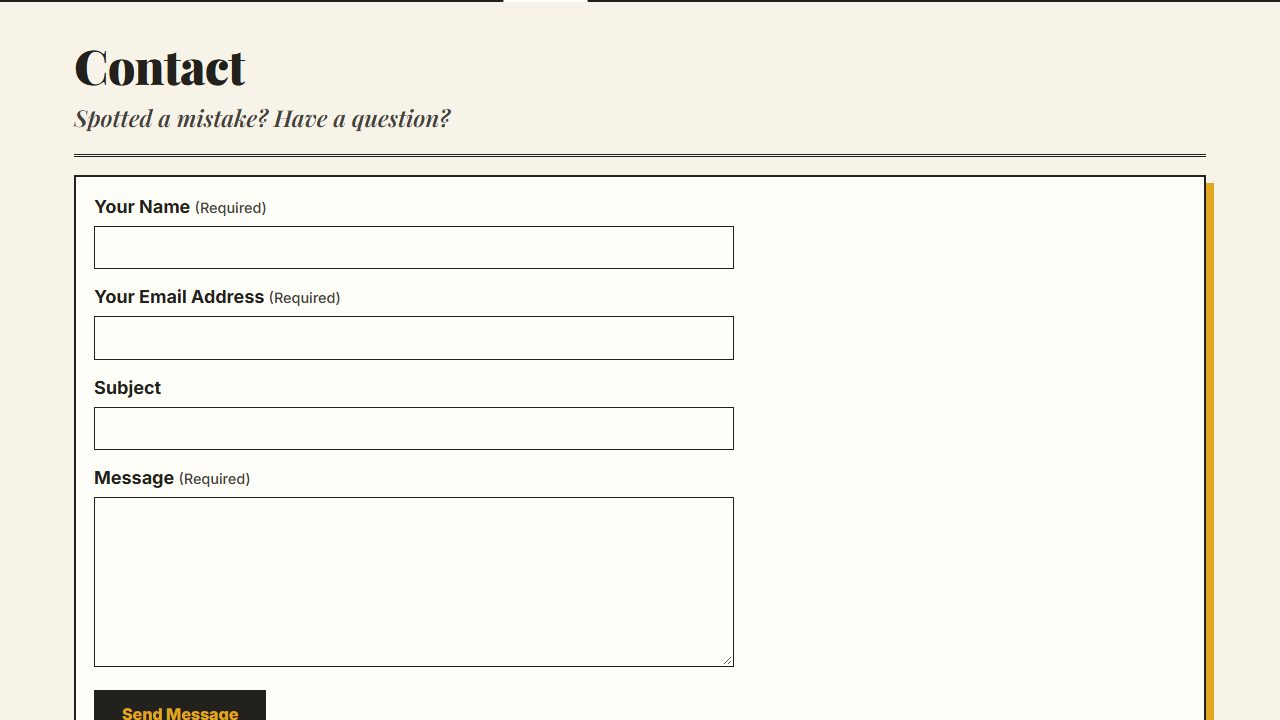
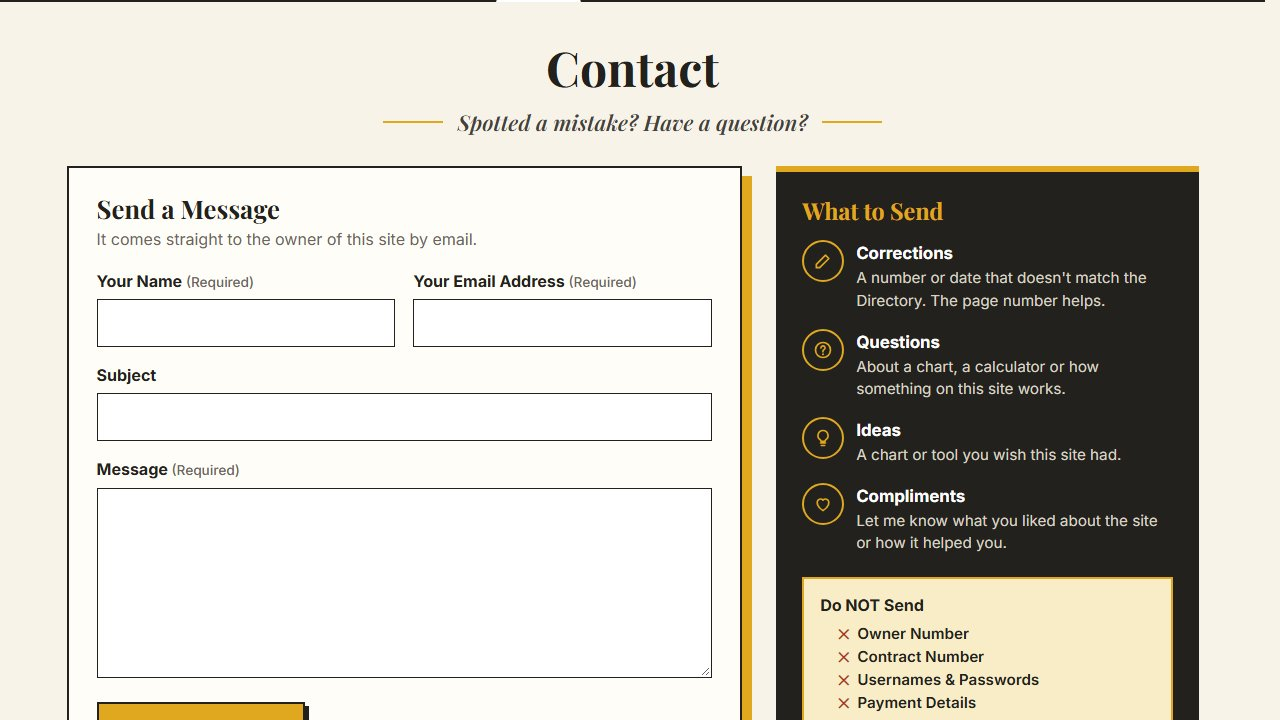
Same compact header on every page, prettier Contact page, Points Budget tab on 52 Weeks, Points Budget fixes (#74)
- Header: Home, Knight Move, Points Budget and Contact share the compact header (Points Budget was missing the logo font, so it looked bold). The header's space is held before it is drawn, so pages no longer jump when switching tabs.
- 52 Weeks: Points Budget tab added (owner-requested season chart v2 change; protected-files.sha256 updated).
- Contact: new layout with the form card and a What to Send panel (Corrections, Questions, Ideas, Compliments, Do NOT Send list).
- Knight Move: breadcrumb removed; title moved up like Points Budget and Contact.
- Points Budget: bolder day checks, separator above Check-In Day, darker separators, "(least points)" wording, over-budget prices grey, Room Size under Latest Check-Out, examples use All Sizes and 3 months, "65,000 Points".
- Home: new Contact and Knight Move preview pictures.

Claude-Session: https://claude.ai/code/session_01UoETC95Bkp7BHu5sbZuC9e

diff --git a/52weeks/pointsbudget.html b/52weeks/pointsbudget.html
@@ -5,7 +5,9 @@
 <meta name="viewport" content="width=device-width, initial-scale=1">
 <title>Where Can My Points Take Me? | Your Timeshare Guide</title>
 <link rel="icon" href="../assets/favicon.svg" type="image/svg+xml">
-<link href="https://fonts.googleapis.com/css2?family=Caveat:wght@700&family=Inter:wght@400;500;600;700;800&family=Montserrat:wght@800&family=Playfair+Display:ital,wght@0,600;0,700;0,800;0,900;1,600&display=swap" rel="stylesheet">
+<link rel="preconnect" href="https://fonts.googleapis.com">
+<link rel="preconnect" href="https://fonts.gstatic.com" crossorigin>
+<link href="https://fonts.googleapis.com/css2?family=Caveat:wght@700&family=Cormorant+Garamond:ital,wght@0,700;1,600&family=Inter:wght@400;500;600;700;800&family=Montserrat:wght@800&family=Playfair+Display:ital,wght@0,600;0,700;0,800;0,900;1,600&display=swap" rel="stylesheet">
 <link rel="stylesheet" href="../assets/site.css">
 <meta name="description" content="Find stays that fit your points and explore your options.">
 <meta name="robots" content="noindex, nofollow">
@@ -14,7 +16,7 @@
 @media (prefers-color-scheme:dark){:root{--bg:#10151c;--card:#19212b;--ink:#e8edf3;--mute:#9aa6b5;--line:#2c3744;--stay:#6aa9e6;--good:#4ade80;--bad:#f87171;--warn:#2b2113;--head:#212c38}}
 *{box-sizing:border-box}
 body{margin:0;background:var(--bg);color:var(--ink);font:16px/1.45 system-ui,Segoe UI,Roboto,sans-serif}
-.wrap{max-width:1500px;margin:0 auto;padding:12px 16px 60px}
+#main.wrap{max-width:1500px;margin:0 auto;padding:12px 16px 60px}
 #setCard,.sub,.notes{max-width:1000px;margin-left:auto;margin-right:auto}
 h1{font-size:1.8rem;margin:0 0 2px;text-align:center}
 h2{font-size:1.1rem;margin:0 0 10px}
@@ -32,7 +34,7 @@ button.wkday{grid-column:1/6}button.wkend{grid-column:6/8}
 /* Check-In Day buttons, option C (owner, 2026-10-25): on = white with a small green check; off = grey, dashed and crossed through */
 button.day{display:flex;align-items:center;justify-content:center;gap:3px;min-height:38px;padding:4px 0;background:#f3f4f6;color:#a3abb5;border:1.5px dashed #c9cfd6;font-weight:600;text-decoration:line-through}
 button.day[aria-pressed="true"]{background:#fff;color:var(--ink);border:1.5px solid #8a96a3;text-decoration:none}
-button.day[aria-pressed="true"]::before{content:"\2713";color:#15803d;font-weight:800}
+button.day[aria-pressed="true"]::before{content:"\2713";color:#15803d;font-weight:800;font-size:1.2em;line-height:1;-webkit-text-stroke:1.2px #15803d}   /* bolder check (owner, 2026-10-26) */
 @media (prefers-color-scheme:dark){button.day{background:#212c38;color:#6b7785;border-color:#3a4654}button.day[aria-pressed="true"]{background:#19212b;color:var(--ink);border-color:#9aa6b5}button.day[aria-pressed="true"]::before{color:#4ade80}}
 .maxn{margin-left:10px;font-weight:700;color:var(--mute)}
 .sethead{display:flex;flex-wrap:wrap;justify-content:space-between;align-items:baseline;gap:4px 16px;margin:0 0 10px}
@@ -53,6 +55,7 @@ button.link{all:unset;cursor:pointer;color:var(--stay);font-weight:700;text-deco
 .fgrid>div{min-width:0}.fgrid .full{grid-column:1/-1}.fgrid .rule{border-top:1px solid var(--line);margin:2px 0}
 .fgrid input:not([type=checkbox]):not(.pickin),.fgrid select{width:100%}
 .fgrid .msg{margin-top:6px}
+.sizebox{margin-top:12px}   /* Room Size under Latest Check-Out, across from Max Nights (owner, 2026-10-26) */
 .nights{margin-top:12px}.nrow{display:grid;grid-template-columns:96px 84px;align-items:center;gap:10px;margin-top:8px}.nrow label{margin:0}.fgrid .nrow input{width:84px;height:38px;margin:0}
 .where{background:var(--head);border:1px solid var(--line);border-radius:10px;padding:10px 12px}
 .radrow{display:flex;align-items:center;gap:10px;margin-top:8px}.radrow label{white-space:nowrap;margin:0}.fgrid .radrow select{width:auto;min-width:150px;margin:0}
@@ -119,7 +122,7 @@ td.sPrime{background:var(--prime)}td.sHigh{background:var(--high)}td.sValue{back
 .chips{display:flex;flex-wrap:wrap;gap:10px;align-items:center;font-size:.8rem;color:var(--mute);margin:0 0 6px}
 .chips span.chip{display:inline-flex;align-items:center;gap:5px;color:var(--ink)}
 .chips i{display:inline-block;width:14px;height:14px;border-radius:3px;border:1px solid rgba(0,0,0,.35)}
-td.pPrime{background:rgba(229,127,118,.34)}td.pHigh{background:rgba(239,156,76,.34)}td.pValue{background:rgba(247,226,151,.55)}td.pQuiet{background:rgba(140,207,176,.34)}
+td.pPrime,td.pHigh,td.pValue,td.pQuiet{background:#ecebe7;color:#8a867d}   /* prices over your points: grey, not their season color (owner, 2026-10-26) */
 td.fit{background:#d3e6fa;color:#0f3d6b;font-weight:700;box-shadow:inset 3px 0 0 #2a6fb0}   /* blue, not a season color (owner, 2026-10-25) */
 @media (prefers-color-scheme:dark){td.fit{background:#1d3a5c;color:#e8edf3}}
 .notes{background:var(--warn)}
@@ -136,7 +139,7 @@ p.foot{color:var(--mute);font-size:.85rem;text-align:center;max-width:1000px;mar
 .printonly{display:none}
 @media print{
  body{background:#fff;color:#000}
- .wrap{max-width:none;padding:0}
+ #main.wrap{max-width:none;padding:0}
  .noprint{display:none!important}
  .printonly{display:block}
  .card{border:0;padding:0}
@@ -165,7 +168,7 @@ p.foot{display:none}   /* the site footer below carries the same notice */
 #pts{border-width:2.5px}
 .ptslabel{font-family:"Playfair Display",Georgia,serif;font-weight:800;font-size:1.5rem}
 #vip{border:1px solid #c9bfa9;background:#efe9da;color:#6b665b}
-.fgrid .rule{border-top:2px dotted #c9bfa9}
+.fgrid .rule{border-top:2px dotted #9c8f74}   /* a little darker (owner, 2026-10-26) */
 .where{background:#f9edc8;border:1.5px solid #22211e;border-radius:0}
 @media (max-width:900px){.hero{display:flex;flex-direction:column}.hsmall{order:-1}.hwide{display:none}.htext{position:static;padding:0}.hsmall{display:grid;grid-template-columns:130px 180px;justify-content:center;align-items:end;gap:6px;margin-bottom:8px}.hero h1{white-space:normal;font-size:2rem}.hero p{font-size:1.05rem}}
 .card{border-radius:0;border:2px solid #22211e}
@@ -178,7 +181,7 @@ button.alt:hover{background:#f9edc8}
 #go{background:#e0a81e;color:#22211e;border:2px solid #22211e;box-shadow:4px 4px 0 #22211e;font-size:1.05rem;padding:10px 24px}
 input,select{border-radius:0;border:2px solid #22211e;background:#fff}
 input:focus,select:focus{outline:3px solid #e0a81e;outline-offset:1px}
-.presets{border-bottom:2px dotted #c9bfa9}
+.presets{border-bottom:2px dotted #9c8f74}
 button.grpday,button.link,button.more{color:#22211e;text-decoration-color:#e0a81e;text-decoration-thickness:2px}
 .sethead label.chk{color:#45423b}
 .scroll{border:1.5px solid #22211e;border-radius:0}
@@ -195,7 +198,6 @@ th[aria-sort=ascending] .arr .u,th[aria-sort=descending] .arr .d{color:#22211e}
 .btns{border:0;padding-bottom:0}
 /* every heading puts its sort arrows under the words, as the number columns do, so the table fits at 1366 px in the site font */
 th:not(.n) button .lbl{display:inline-flex;flex-direction:column;align-items:flex-start}th:not(.n) .arr{flex-direction:row;margin:3px 0 0}th.sea .lbl{align-items:center}   /* site.css draws a gold rule under .btns; not wanted here */
-.mast .wrap,.nav .wrap,#site-header .wrap,footer .wrap{max-width:1180px;margin:0 auto;padding:0 24px}
 </style>
 </head>
 <body data-tab="planastay">
@@ -540,7 +542,7 @@ th:not(.n) button .lbl{display:inline-flex;flex-direction:column;align-items:fle
 <div class="sethead"><h2 id="sh">Search Settings</h2></div>
 <form id="f" novalidate>
 <div class="presets"><span class="lab">Try an Example:</span>
-<button type="button" class="alt" data-preset="low">Lowest Points per Night</button><button type="button" class="alt" data-preset="bonnet">Bonnet Creek</button><button type="button" class="alt" data-preset="water">Water Park Resorts</button><button type="button" class="alt" data-preset="vegas">Las Vegas</button><button type="button" class="alt" data-preset="65">65,000 Points a Year</button>
+<button type="button" class="alt" data-preset="low">Lowest Points per Night</button><button type="button" class="alt" data-preset="bonnet">Bonnet Creek</button><button type="button" class="alt" data-preset="water">Water Park Resorts</button><button type="button" class="alt" data-preset="vegas">Las Vegas</button><button type="button" class="alt" data-preset="65">65,000 Points</button>
 </div>
 <div class="ptsc">
 <label for="pts" class="ptslabel">How Many Points Do You Want to Use?</label>
@@ -548,20 +550,20 @@ th:not(.n) button .lbl{display:inline-flex;flex-direction:column;align-items:fle
 <div class="minor"><label for="vip">VIP Level</label><select id="vip"><option value="none">Non-VIP</option><option value="all">Show All</option></select><label class="chk"><input type="checkbox" id="disc"> Discovery Resorts Only</label></div>
 </div>
 <div class="fgrid">
-<div><label for="size">Room Size</label><select id="size"></select></div>
 <div class="full where"><label for="loc">Location</label><input id="loc" type="search" list="places" autocomplete="off" placeholder="e.g. Bay Club, Maine, Canada"><datalist id="places"></datalist>
 <div class="radrow"><label for="radius">Search Radius</label><select id="radius" disabled></select></div>
 <p class="hint" id="radHint">Type a resort name, state or country. For a radius, type a city and state, such as Orlando, Florida.</p></div>
 <div class="rule full" aria-hidden="true"></div>
 <div><label for="from">Earliest Check-In</label><div class="dbox"><input id="from" type="text" inputmode="numeric" autocomplete="off" placeholder="mm/dd/yy"><button type="button" class="pickbtn" data-for="from" aria-label="Pick Earliest Check-In From a Calendar" title="Pick From a Calendar"><svg viewBox="0 0 24 24" aria-hidden="true" focusable="false"><rect x="3.5" y="5" width="17" height="15.5" rx="1.5"/><path d="M3.5 9.5h17M8 3v4M16 3v4"/></svg></button><input type="date" class="pickin" tabindex="-1" aria-hidden="true" data-for="from"></div><p class="msg err" id="fromErr" role="status" hidden>Type a date like 10/25/26 or 102526.</p><div class="nights"><div class="nrow"><label for="minN">Min Nights</label><input id="minN" type="number" min="1" max="30" value="2"></div><p class="msg err" id="oneNight" role="status" hidden>Note: Club Wyndham min. booking is 2 nights.</p><div class="nrow"><label for="maxN">Max Nights</label><input id="maxN" type="number" min="1" max="30" value="7"></div><p class="msg err" id="maxWarn" role="status" hidden>Max Nights needs to be 5 or less for weeknight-only stays.</p></div></div>
-<div><label for="to">Latest Check-Out</label><div class="dbox"><input id="to" type="text" inputmode="numeric" autocomplete="off" placeholder="mm/dd/yy"><button type="button" class="pickbtn" data-for="to" aria-label="Pick Latest Check-Out From a Calendar" title="Pick From a Calendar"><svg viewBox="0 0 24 24" aria-hidden="true" focusable="false"><rect x="3.5" y="5" width="17" height="15.5" rx="1.5"/><path d="M3.5 9.5h17M8 3v4M16 3v4"/></svg></button><input type="date" class="pickin" tabindex="-1" aria-hidden="true" data-for="to"></div><p class="msg err" id="toErr" role="status" hidden>Type a date like 10/25/26 or 102526.</p><div class="spans" role="group" aria-label="Set Latest Check-Out from Earliest Check-In"><button type="button" data-span="7d">1 Wk</button><button type="button" data-span="14d">2 Wks</button><button type="button" data-span="1m">1 Mo</button><button type="button" data-span="6m">6 Mo</button><button type="button" data-span="12m">1 Yr</button></div><p class="hint"><button type="button" class="link small" id="clearTo">Leave blank</button> to check in on the Earliest Check-In date only.</p></div>
+<div><label for="to">Latest Check-Out</label><div class="dbox"><input id="to" type="text" inputmode="numeric" autocomplete="off" placeholder="mm/dd/yy"><button type="button" class="pickbtn" data-for="to" aria-label="Pick Latest Check-Out From a Calendar" title="Pick From a Calendar"><svg viewBox="0 0 24 24" aria-hidden="true" focusable="false"><rect x="3.5" y="5" width="17" height="15.5" rx="1.5"/><path d="M3.5 9.5h17M8 3v4M16 3v4"/></svg></button><input type="date" class="pickin" tabindex="-1" aria-hidden="true" data-for="to"></div><p class="msg err" id="toErr" role="status" hidden>Type a date like 10/25/26 or 102526.</p><div class="spans" role="group" aria-label="Set Latest Check-Out from Earliest Check-In"><button type="button" data-span="7d">1 Wk</button><button type="button" data-span="14d">2 Wks</button><button type="button" data-span="1m">1 Mo</button><button type="button" data-span="6m">6 Mo</button><button type="button" data-span="12m">1 Yr</button></div><p class="hint"><button type="button" class="link small" id="clearTo">Leave blank</button> to check in on the Earliest Check-In date only.</p><div class="sizebox"><label for="size">Room Size</label><select id="size"></select></div></div>
+<div class="rule full" aria-hidden="true"></div>
 <div class="full"><span class="lab" id="dayLbl">Check-In Day:</span>
 <div class="daygrid" role="group" aria-labelledby="dayLbl">
 <button type="button" class="grpday wkday" data-days="0,1,2,3,4">Weekday</button><button type="button" class="grpday wkend" data-days="5,6">Weekend</button>
 <span class="clickday">Click a day</span>
 <button type="button" class="day" data-d="0" aria-pressed="true">Sun</button><button type="button" class="day" data-d="1" aria-pressed="true">Mon</button><button type="button" class="day" data-d="2" aria-pressed="true">Tue</button><button type="button" class="day" data-d="3" aria-pressed="true">Wed</button><button type="button" class="day" data-d="4" aria-pressed="true">Thu</button><button type="button" class="day" data-d="5" aria-pressed="true">Fri</button><button type="button" class="day" data-d="6" aria-pressed="true">Sat</button>
 </div>
-<div class="wkbox"><label class="chk"><input type="checkbox" id="wkn"> Use only weeknights for the stay (Max: 5 Nights)</label></div></div>
+<div class="wkbox"><label class="chk"><input type="checkbox" id="wkn"> Use only weeknights (least points) for the stay (Max: 5 Nights)</label></div></div>
 </div>
 <div class="btns go"><button type="submit" id="go">Find Stays</button></div>
 <p class="msg err" id="err" role="alert" hidden></p>
@@ -1024,7 +1026,10 @@ function allDays() { for (var i = 0; i < dayBtns.length; i++) dayBtns[i].setAttr
 document.querySelector('.presets').addEventListener('click', function (ev) {
   var b = ev.target.closest('button[data-preset]'); if (!b) return;
   var p = b.getAttribute('data-preset');
-  setDate('from', Math.max(CAL_START, todayUTC)); setDate('to', CAL_END); allDays(); lowMode = false;
+  /* Examples (owner, 2026-10-26): All Sizes, and Latest Check-Out 3 months after Earliest Check-In */
+  var f0 = Math.max(CAL_START, todayUTC), d0 = new Date(f0), t0 = Date.UTC(d0.getUTCFullYear(), d0.getUTCMonth() + 3, d0.getUTCDate());
+  if (new Date(t0).getUTCDate() !== d0.getUTCDate()) t0 = Date.UTC(d0.getUTCFullYear(), d0.getUTCMonth() + 4, 0);
+  setDate('from', f0); setDate('to', Math.min(CAL_END, t0)); $('size').value = ''; allDays(); lowMode = false;
   if (p === 'low') { $('loc').value = ''; $('minN').value = 1; $('maxN').value = 1; lowMode = true; }
   else { $('minN').value = 2; $('maxN').value = 7; }
   if (p === 'bonnet') $('loc').value = 'Club Wyndham Bonnet Creek';

diff --git a/contact/index.html b/contact/index.html
@@ -12,44 +12,92 @@
 <link href="https://fonts.googleapis.com/css2?family=Cormorant+Garamond:ital,wght@0,700;1,600&family=Inter:wght@400;500;600;700;800&family=Playfair+Display:ital,wght@0,600;0,700;0,800;0,900;1,600&display=swap" rel="stylesheet">
 <link rel="stylesheet" href="../assets/site.css">
 <style>
+  /* Contact page (owner, 2026-10-26: "prettier"): a heading band, the form card with a gold shadow, and a dark side panel */
+  .c-head{text-align:center;margin:10px 0 26px}   /* title sits where the Points Budget title does (owner, 2026-10-26) */
+  .c-head h1{font-size:3rem}
+  .c-head .c-rule{display:flex;align-items:center;justify-content:center;gap:14px;margin:10px 0 0;font-family:var(--serif);font-style:italic;font-size:1.35rem;color:var(--ink2)}
+  .c-head .c-rule::before,.c-head .c-rule::after{content:"";width:60px;height:2px;background:var(--mustard);flex:none}
+  .c-grid{display:grid;grid-template-columns:minmax(0,1.6fr) minmax(0,1fr);gap:34px;align-items:start;margin-bottom:40px}
+  .c-card{background:var(--card);border:2px solid var(--ink);box-shadow:10px 10px 0 var(--mustard);padding:26px 28px 28px}
+  .c-card h2{font-size:1.6rem;margin:0 0 4px}
+  .c-card .c-sub{color:var(--ink3);font-size:1rem;margin:0}
   /* Contact form */
-  .cf{display:grid;gap:14px;max-width:640px}
-  .cf label{display:block;font-weight:700;margin-bottom:4px}
-  .cf .req{color:var(--ink2);font-weight:500;font-size:.9rem}
-  .cf input,.cf textarea{font:inherit;font-size:1rem;color:var(--ink);background:var(--card);border:1.5px solid var(--ink);padding:8px 10px;border-radius:0;width:100%;box-sizing:border-box}
-  .cf textarea{min-height:170px;resize:vertical}
-  .cf .send{justify-self:start;font:inherit;font-weight:800;font-size:1rem;background:var(--ink);color:var(--mustard);border:2px solid var(--ink);padding:10px 26px;cursor:pointer}
-  .cf .send:hover{background:var(--mustard);color:var(--ink)}
-  .cf-done{display:none}
+  .cf{display:grid;grid-template-columns:1fr 1fr;gap:16px 18px}
+  .cf .full{grid-column:1/-1}
+  .cf label{display:block;font-weight:700;font-size:1rem;margin-bottom:5px}
+  .cf .req{color:var(--ink3);font-weight:500;font-size:.85rem}
+  .cf input,.cf textarea{font:inherit;font-size:1rem;color:var(--ink);background:#fff;border:1.5px solid var(--ink);padding:10px 12px;border-radius:0;width:100%;box-sizing:border-box}
+  .cf input:focus,.cf textarea:focus{outline:3px solid var(--mustard);outline-offset:1px;box-shadow:none}
+  .cf textarea{min-height:190px;resize:vertical}
+  .cf .send{justify-self:start;display:inline-flex;align-items:center;gap:10px;font:inherit;font-weight:800;font-size:1.05rem;background:var(--mustard);color:var(--ink);border:2px solid var(--ink);box-shadow:4px 4px 0 var(--ink);padding:11px 26px;cursor:pointer}
+  .cf .send:hover{background:var(--ink);color:var(--mustard)}
+  .cf .send:active{transform:translate(2px,2px);box-shadow:2px 2px 0 var(--ink)}
+  .cf .send:disabled{opacity:.6;cursor:default}
+  .cf .send svg{width:20px;height:20px}
+  .cf-done{display:none;text-align:center;padding:20px 0 6px}
   .cf-done.on{display:block}
-  .cf-err{color:var(--red);font-weight:700;margin:12px 0 0}
+  .cf-done .tick{display:inline-grid;place-items:center;width:64px;height:64px;border-radius:50%;background:var(--mustard);border:2px solid var(--ink);font-size:2rem;font-weight:800;margin-bottom:10px}
+  .cf-done h2{font-size:2rem}
+  .cf-err{color:var(--red);font-weight:700;margin:14px 0 0}
+  .c-side{background:var(--ink);color:var(--paper);padding:26px 26px 22px;border-top:6px solid var(--mustard)}
+  .c-side h2{color:var(--mustard);font-size:1.45rem;margin:0 0 16px}
+  .c-side ul{list-style:none;margin:0;padding:0;display:grid;gap:16px}
+  .c-side li{display:grid;grid-template-columns:42px 1fr;gap:12px;align-items:start}
+  .c-side .ic{display:grid;place-items:center;width:42px;height:42px;border:2px solid var(--mustard);border-radius:50%;color:var(--mustard)}
+  .c-side .ic svg{width:20px;height:20px}
+  .c-side strong{display:block;font-size:1.05rem;color:#fff}
+  .c-side li span{display:block;font-size:.95rem;line-height:1.5;color:#d9d3c4}
+  .c-note{margin-top:22px;background:var(--mustard-pale);color:var(--ink);border:2px solid var(--mustard);padding:14px 16px;font-size:.95rem;line-height:1.5}
+  .c-note strong{display:block;font-size:1rem;margin-bottom:2px;color:var(--ink)}
+  .c-note a{color:var(--ink)}
+  .c-note p{margin:10px 0 0}
+  .c-side .c-dont{display:block;list-style:none;margin:6px 0 0;padding:0 0 0 18px}
+  .c-side .c-dont li{display:flex;align-items:center;gap:8px;font-weight:600}
+  .c-side .c-dont li::before{content:"\2715";color:var(--red);font-weight:800;font-size:.85rem}
+  @media (max-width:860px){.c-grid{grid-template-columns:1fr}.c-card{box-shadow:6px 6px 0 var(--mustard)}}
+  @media (max-width:560px){.cf{grid-template-columns:1fr}.c-head h1{font-size:2.4rem}.c-head .c-rule{font-size:1.15rem}.c-head .c-rule::before,.c-head .c-rule::after{width:24px}.c-card{padding:20px 18px 22px}}
 </style>
 </head>
 <body data-tab="contact">
 <div id="site-header"></div>
 <main>
   <div class="wrap">
-    <div class="page-head">
+    <div class="c-head">
       <h1>Contact</h1>
-      <div class="question">Spotted a mistake? Have a question?</div>
+      <p class="c-rule">Spotted a mistake? Have a question?</p>
     </div>
-    <div class="card gold">
-      <form class="cf" id="cf" novalidate>
-        <input type="checkbox" name="botcheck" tabindex="-1" autocomplete="off" style="display:none">
-        <div><label for="cf-name">Your Name <span class="req">(Required)</span></label><input id="cf-name" name="name" autocomplete="name" required></div>
-        <div><label for="cf-email">Your Email Address <span class="req">(Required)</span></label><input id="cf-email" name="email" type="email" autocomplete="email" required></div>
-        <div><label for="cf-subject">Subject</label><input id="cf-subject" name="subject"></div>
-        <div><label for="cf-message">Message <span class="req">(Required)</span></label><textarea id="cf-message" name="message" required></textarea></div>
-        <button type="submit" class="send">Send Message</button>
-      </form>
-      <p class="cf-err" id="cf-err" role="alert" hidden></p>
-      <div class="cf-done" id="cf-done" role="status">
-        <h2>Thank You</h2>
-        <p>Your message was sent. We'll reply to the email address you gave.</p>
+    <div class="c-grid">
+      <div class="c-card">
+        <form class="cf" id="cf" novalidate>
+          <div class="full"><h2>Send a Message</h2><p class="c-sub">It comes straight to the owner of this site by email.</p></div>
+          <input type="checkbox" name="botcheck" tabindex="-1" autocomplete="off" style="display:none">
+          <div><label for="cf-name">Your Name <span class="req">(Required)</span></label><input id="cf-name" name="name" autocomplete="name" required></div>
+          <div><label for="cf-email">Your Email Address <span class="req">(Required)</span></label><input id="cf-email" name="email" type="email" autocomplete="email" required></div>
+          <div class="full"><label for="cf-subject">Subject</label><input id="cf-subject" name="subject"></div>
+          <div class="full"><label for="cf-message">Message <span class="req">(Required)</span></label><textarea id="cf-message" name="message" required></textarea></div>
+          <button type="submit" class="send"><svg viewBox="0 0 24 24" aria-hidden="true"><path d="M3 11.5 21 3l-6.5 18-3-7.5z" fill="none" stroke="currentColor" stroke-width="2" stroke-linejoin="round"/><path d="m11.5 13.5 4-4" stroke="currentColor" stroke-width="2" stroke-linecap="round"/></svg><span>Send Message</span></button>
+        </form>
+        <p class="cf-err" id="cf-err" role="alert" hidden></p>
+        <div class="cf-done" id="cf-done" role="status">
+          <div class="tick" aria-hidden="true">&#10003;</div>
+          <h2>Thank You</h2>
+          <p>Your message was sent. We'll reply to the email address you gave.</p>
+        </div>
       </div>
-    </div>
-    <div class="prose">
-      <p>This site cannot book, change or look up reservations. Please don't send your owner number, password or payment details. For your own account, contact Club Wyndham directly through <a href="https://clubwyndham.wyndhamdestinations.com/us/en/help" target="_blank" rel="noopener">Club Wyndham Help</a>.</p>
+      <aside class="c-side" aria-label="What to Send">
+        <h2>What to Send</h2>
+        <ul>
+          <li><span class="ic"><svg viewBox="0 0 24 24" aria-hidden="true"><path d="M4 20h4L19 9l-4-4L4 16z" fill="none" stroke="currentColor" stroke-width="2" stroke-linejoin="round"/></svg></span><div><strong>Corrections</strong><span>A number or date that doesn't match the Directory. The page number helps.</span></div></li>
+          <li><span class="ic"><svg viewBox="0 0 24 24" aria-hidden="true"><circle cx="12" cy="12" r="9" fill="none" stroke="currentColor" stroke-width="2"/><path d="M9.5 9.5a2.5 2.5 0 1 1 3.5 2.3c-.7.3-1 .8-1 1.5V14" fill="none" stroke="currentColor" stroke-width="2" stroke-linecap="round"/><circle cx="12" cy="17.2" r="1.2" fill="currentColor"/></svg></span><div><strong>Questions</strong><span>About a chart, a calculator or how something on this site works.</span></div></li>
+          <li><span class="ic"><svg viewBox="0 0 24 24" aria-hidden="true"><path d="M9 18h6M10 21h4M12 3a6 6 0 0 0-3.5 10.9c.6.5 1 1.2 1 2.1h5c0-.9.4-1.6 1-2.1A6 6 0 0 0 12 3z" fill="none" stroke="currentColor" stroke-width="2" stroke-linejoin="round" stroke-linecap="round"/></svg></span><div><strong>Ideas</strong><span>A chart or tool you wish this site had.</span></div></li>
+          <li><span class="ic"><svg viewBox="0 0 24 24" aria-hidden="true"><path d="M12 20s-7-4.4-7-10a4 4 0 0 1 7-2.6A4 4 0 0 1 19 10c0 5.6-7 10-7 10z" fill="none" stroke="currentColor" stroke-width="2" stroke-linejoin="round"/></svg></span><div><strong>Compliments</strong><span>Let me know what you liked about the site or how it helped you.</span></div></li>
+        </ul>
+        <div class="c-note">
+          <strong>Do NOT Send</strong>
+          <ul class="c-dont"><li>Owner Number</li><li>Contract Number</li><li>Usernames &amp; Passwords</li><li>Payment Details</li></ul>
+          <p>This site cannot book, change or look up reservations. For your own account, contact <a href="https://clubwyndham.wyndhamdestinations.com/us/en/help" target="_blank" rel="noopener">Club Wyndham Help</a>.</p>
+        </div>
+      </aside>
     </div>
   </div>
 </main>
@@ -59,7 +107,7 @@
   // Messages go to the owner by email through Web3Forms (web3forms.com). The access key only lets this form send to the
   // owner's address; it is not a password. Replace ACCESS_KEY with the key from the Web3Forms account.
   var ACCESS_KEY = "5743843a-16c5-44fe-b0bc-c4546366a8e5";
-  var form = document.getElementById("cf"), err = document.getElementById("cf-err"), btn = form.querySelector(".send");
+  var form = document.getElementById("cf"), err = document.getElementById("cf-err"), btn = form.querySelector(".send"), btnText = btn.querySelector("span");
   form.addEventListener("submit", function (e) {
     e.preventDefault();
     if (!form.reportValidity()) return;
@@ -70,7 +118,7 @@
     data.set("subject", "Your Timeshare Guide: " + (data.get("subject") || "New Message"));
     data.set("from_name", "Your Timeshare Guide");
     data.set("replyto", data.get("email"));
-    btn.disabled = true; btn.textContent = "Sending...";
+    btn.disabled = true; btnText.textContent = "Sending...";
     fetch("https://api.web3forms.com/submit", { method: "POST", headers: { Accept: "application/json" }, body: data })
       .then(function (r) { return r.json(); })
       .then(function (res) {
@@ -81,7 +129,7 @@
       .catch(function () {
         err.textContent = "Sorry, your message could not be sent. Please try again in a few minutes.";
         err.hidden = false;
-        btn.disabled = false; btn.textContent = "Send Message";
+        btn.disabled = false; btnText.textContent = "Send Message";
       });
   });
 </script>

diff --git a/52weeks/index.html b/52weeks/index.html
@@ -36,7 +36,7 @@
 <!-- Short version of the site header (owner, 2026-10-24): logo, the folder tabs and today, in one slim row so the chart keeps its room. -->
 <header class="top mini">
   <a class="mini-logo" href="/" aria-label="Your Timeshare Guide, Home"><svg class="mini-mk" viewBox="0 0 64 64" aria-hidden="true" focusable="false"><g style="stroke:var(--g);stroke-width:2.6;stroke-linecap:round"><line x1="32" y1="6" x2="32" y2="12"/><line x1="17.5" y1="12.5" x2="21" y2="16.5"/><line x1="46.5" y1="12.5" x2="43" y2="16.5"/><line x1="8.6" y1="22.6" x2="13.4" y2="24.9"/><line x1="55.4" y1="22.6" x2="50.6" y2="24.9"/></g><path d="M20 35a12 12 0 0 1 24 0z" style="fill:var(--g)"/><path d="M2 35C12 31.5 22 32.5 30.5 37.5V58C22 53 12 52 2 55Z" style="fill:var(--k)"/><path d="M62 35C52 31.5 42 32.5 33.5 37.5V58C42 53 52 52 62 55Z" style="fill:var(--k)"/><g style="fill:none;stroke:var(--p);stroke-width:.9;opacity:.85"><path d="M18 40.4C20.97 39.7 23.94 40.4 27 41.7"/><path d="M18 43.6C20.97 42.9 23.94 43.6 27 44.9"/><path d="M18 46.8C20.97 46.1 23.94 46.8 27 48.1"/><path d="M6 50.6C13 48.4 20 49.1 27 52.4"/><path d="M58 39.5C51 37.3 44 38 37 41.3"/><path d="M58 43.2C51 41 44 41.7 37 45"/><path d="M46 48.2C43.03 47.5 40.06 48.2 37 49.5"/><path d="M46 51.4C43.03 50.7 40.06 51.4 37 52.7"/></g><rect x="6" y="38.6" width="10" height="7.4" style="fill:var(--p)"/><path d="M6.6 45.4L9.6 41.6L11.6 43.6L13 42.3L15.4 45.4Z" style="fill:var(--k)"/><circle cx="13.4" cy="40.6" r="1" style="fill:var(--g)"/><rect x="48" y="45.6" width="10" height="7.4" style="fill:var(--p)"/><path d="M48.4 52.2C50.5 51.2 52.5 51.2 54.6 52.2C56 52.9 57 52.7 57.6 52.4" style="fill:none;stroke:var(--g);stroke-width:.8"/><path d="M53.6 52C53.4 50 53.6 48.6 54.4 47.6" style="fill:none;stroke:var(--k);stroke-width:.8;stroke-linecap:round"/><path d="M54.4 47.6C53.2 47.1 51.9 47.5 51.2 48.4M54.4 47.6C55.6 47 56.9 47.4 57.4 48.3M54.4 47.6C54 46.6 53 46.2 52.2 46.4M54.4 47.6C55 46.6 56 46.3 56.8 46.6" style="fill:none;stroke:var(--k);stroke-width:.75;stroke-linecap:round"/></svg><span>Your Timeshare Guide</span></a>
-  <nav class="mini-tabs" aria-label="Main"><a href="/">Home</a><a href="/52weeks/" aria-current="page">52 Weeks</a><a href="/cancelknight/">Knight Move</a><a href="/contact/">Contact</a></nav>
+  <nav class="mini-tabs" aria-label="Main"><a href="/">Home</a><a href="/52weeks/" aria-current="page">52 Weeks</a><a href="/cancelknight/">Knight Move</a><a href="/52weeks/pointsbudget.html">Points Budget</a><a href="/contact/">Contact</a></nav>
   <div class="today" id="today"></div>
 </header>
 

diff --git a/assets/site.css b/assets/site.css
@@ -24,7 +24,7 @@
   --sans:"Inter", system-ui, -apple-system, "Segoe UI", Arial, sans-serif;
 }
 *{box-sizing:border-box}
-html{font-size:100%;-webkit-text-size-adjust:100%}
+html{font-size:100%;-webkit-text-size-adjust:100%;scrollbar-gutter:stable}   /* page width stays put whether or not a page scrolls */
 body{margin:0;background:var(--paper);color:var(--ink);font-family:var(--sans);font-size:1.125rem;line-height:1.6;overflow-x:hidden}
 img{max-width:100%;display:block}
 a{color:var(--ink);text-decoration-thickness:2px;text-underline-offset:3px;text-decoration-color:var(--mustard)}
@@ -38,8 +38,13 @@ h1,h2,h3,.num,.n,.cat-num,.mast-side strong{font-variant-numeric:lining-nums}
 .sr{position:absolute;width:1px;height:1px;overflow:hidden;clip:rect(0 0 0 0);white-space:nowrap}
 
 /* ---------- Masthead with logo 21, stacked and centered ---------- */
+.mast,.nav{font-size:1.125rem;line-height:1.6}   /* the same on every page, whatever text size and line height the page itself uses */
+/* Holds the header's space until site.js draws it, so the page doesn't jump down when switching tabs */
+#site-header{min-height:259px}
+@media (max-width:1180px){#site-header{min-height:266px}}
+@media (max-width:760px){#site-header{min-height:257px}}
 .mast{background:var(--paper)}
-.mast-top{display:grid;grid-template-columns:1fr auto 1fr;align-items:center;gap:8px 20px;padding:20px 0 12px}
+.mast-top{display:grid;grid-template-columns:1fr auto 1fr;align-items:center;gap:8px 20px;padding:6px 0 0}   /* compact, as on Points Budget (owner, 2026-10-26) */
 .mast-side{font-size:.95rem;color:var(--ink2);line-height:1.45}
 .mast-side strong{font-family:var(--serif);font-size:1.15rem;color:var(--ink)}
 .mast-side.right{text-align:right}
@@ -385,7 +390,7 @@ footer.site-foot{background:var(--ink);color:#e9e4d6;padding:34px 0 30px;border-
 }
 @media (max-width:760px){
   .wrap{padding:0 16px}
-  .mast-top{grid-template-columns:1fr;padding:14px 0 8px}
+  .mast-top{grid-template-columns:1fr;padding:8px 0 0}
   .mast-side{display:none}
   .logo-mk{width:60px;height:60px}
   .logo-your{font-size:1.9rem}

diff --git a/cancelknight/index.html b/cancelknight/index.html
@@ -17,7 +17,6 @@
 <div id="site-header"></div>
 <main>
   <div class="wrap">
-    <p class="crumb"><a href="../">Home</a> &rsaquo; The Cancellation Knight Move</p>
     <div class="tool-head kn-hero">
       <div class="kn-badge" aria-hidden="true"><svg viewBox="0 0 45 45" focusable="false"><g fill="#f9edc8" stroke="#f9edc8" stroke-width="1.2" stroke-linejoin="round"><path d="M22 10c10.5 1 16.5 8 16 29H15c0-9 10-6.5 8-21"/><path d="M24 18c.38 2.91-5.55 7.37-8 9-3 2-2.82 4.34-5 4-1.04-.94 1.41-3.04 0-3-1 0 .19 1.23-1 2-1 0-4.003 1-4-4 0-2 6-12 6-12s1.89-1.9 2-3.5c-.73-.994-.5-2-.5-3 1-1 3 2.5 3 2.5h2s.78-1.992 2.5-3c1 0 1 3 1 3"/></g><circle cx="9.5" cy="25.5" r="1.4" fill="#22211e"/><circle cx="14" cy="15.7" r="1.2" fill="#22211e"/></svg></div>
       <h1>The<span class="kn-ins"><svg class="kn-caret" viewBox="0 0 40 34" aria-hidden="true" focusable="false"><path d="M11 31 L20 4 L29 31"/></svg> <span class="kn-insw">Cancellation</span></span> Knight Move</h1>
